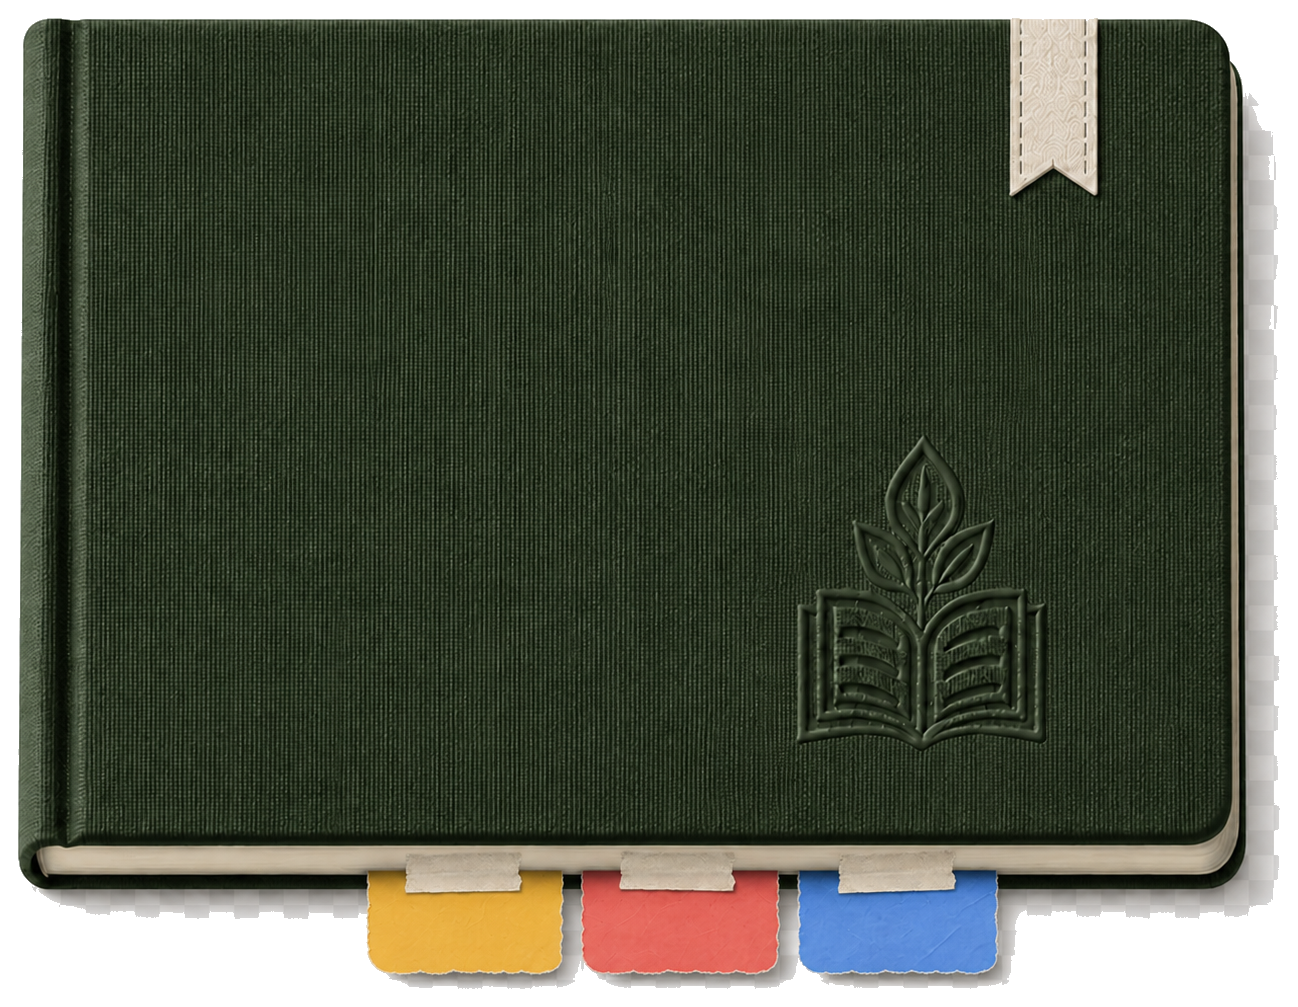
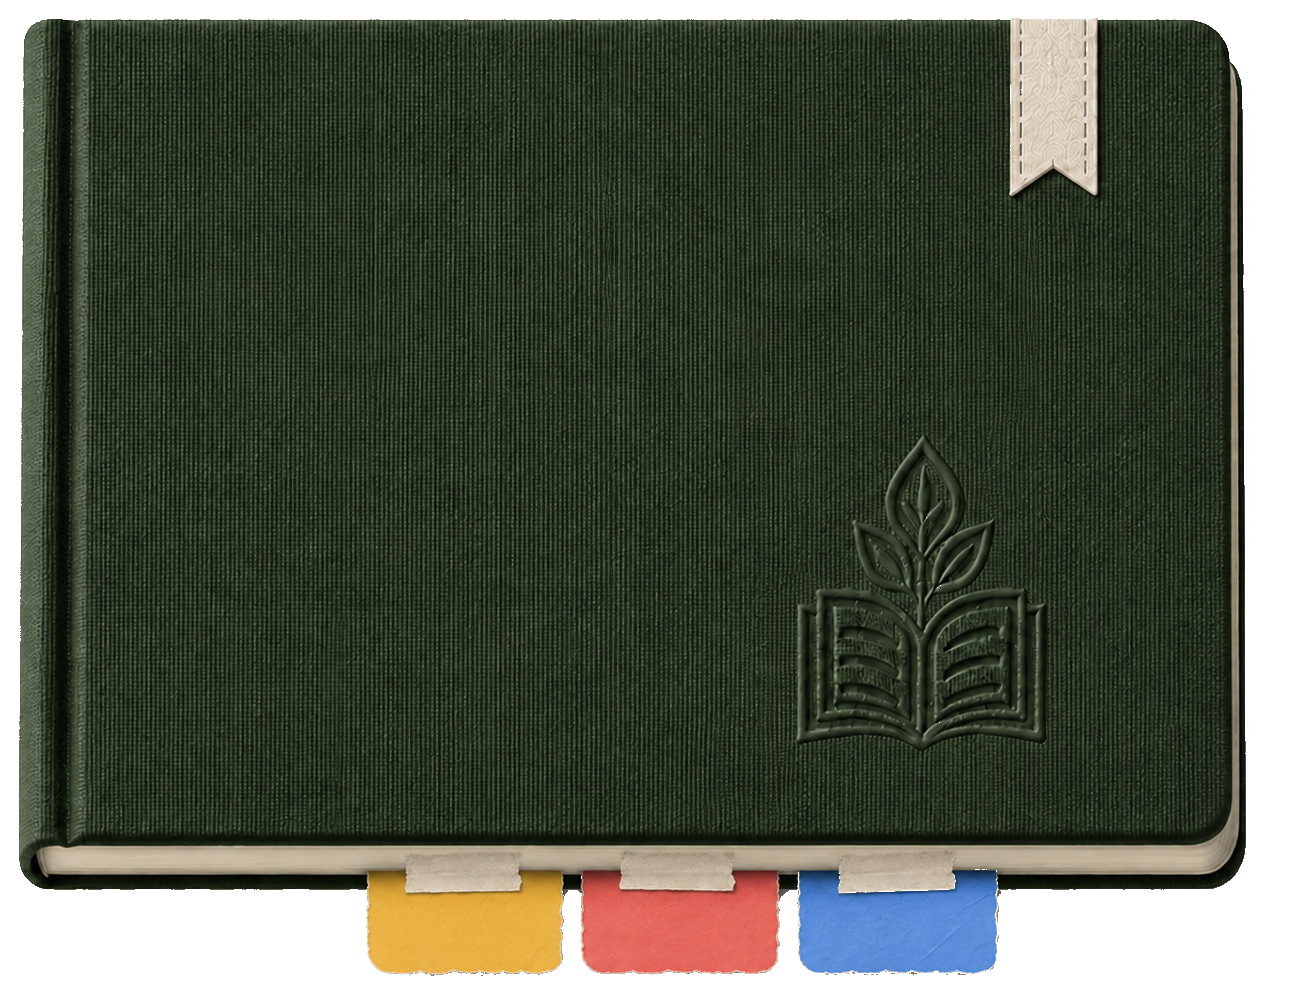
Fix Home v7 contact shadows

Changed region(s): [[0.3082, 0.0924, 0.9861, 0.9851], [0.0308, 0.862, 0.2773, 0.9235]]

diff --git a/frontend/app/globals.css b/frontend/app/globals.css
@@ -2620,11 +2620,45 @@ body:has(.home-v4) .app-toolbar {
   aspect-ratio: 1298 / 1007;
   margin-top: -12px;
   z-index: 1;
-  /* No drop-shadow filter here: the plate's own baked-in contact shadow
-     (bottom edge, right edge, and each tab's own table cast) is the only
-     shadow source for this object, so there's nothing for a CSS filter to
-     double up with -- unlike Phase 199-200, where a `filter` here and a
-     separate PNG/gradient shadow pseudo-element could visually compete. */
+  /* Home v7 shadow grounding fix -- no drop-shadow filter here. A
+     from-scratch attempt at fixing grounding by adding
+     `filter: drop-shadow(...)` directly to `.home-v4-notebook-img` was
+     tried and rejected: a CSS filter on the whole plate image traces its
+     opaque rectangle-ish silhouette (page edge, ribbon corner, tab
+     corners) rather than following the actual soft falloff a real contact
+     shadow needs, and tuning it also required compensating `--cta-top`/
+     note-padding shifts elsewhere that broke the CTA ribbon's visibility
+     on mobile 390 -- confirmed broken, not assumed. See ::before below
+     for the shadow this object actually uses instead. */
+}
+
+/* Home v7 shadow grounding fix -- table contact shadow as its own
+   shadow-only transparent PNG (home-v7-notebook-tabs-contact-shadow.png),
+   not a CSS filter and not a separate solid-color/gradient div. Generated
+   directly from the cleaned plate's own alpha silhouette (see
+   ASSET_MANIFEST.md in home-v7/): two blurred, down-right-offset copies
+   of the plate's alpha channel (a tight small-radius blur for a darker
+   near-contact seam, a wider soft-radius blur for the broader outward
+   fade), combined and rendered in one dark warm-brown PNG at the exact
+   same 1298x1007 canvas as the plate itself -- so `background-size:100%
+   100%` lines it up with the plate without any separate position/scale
+   math. `::before` (behind `.home-v4-notebook-img`'s `z-index:0` within
+   this element's own stacking context) means the plate paints over
+   whatever part of the shadow falls under the opaque book/tabs; only the
+   part that peeks out past their real edges is visible, which is what
+   reads as "the book and tabs are actually resting on the desk" instead
+   of a rectangular plate sitting behind them. pointer-events:none (it's
+   decorative, and the shortcut buttons need their own clicks to land on
+   them, not this). */
+.home-v4-notebook::before {
+  content: "";
+  position: absolute;
+  inset: 0;
+  z-index: -1;
+  background-image: url("/brand/decor/home-v7/home-v7-notebook-tabs-contact-shadow.png");
+  background-size: 100% 100%;
+  background-repeat: no-repeat;
+  pointer-events: none;
 }
 
 .home-v4-note-img,

diff --git a/frontend/public/brand/decor/home-v7/ASSET_MANIFEST.md b/frontend/public/brand/decor/home-v7/ASSET_MANIFEST.md
@@ -11,12 +11,25 @@ scene plate, plus the confirmed Shiori reading-peek pose.
     the canonical Home V7 source. The intermediate exploration folder was
     removed during cleanup so future work starts from this manifest and this
     file, not from the failed shadow iteration set.
-  - Contains the notebook cover, its bookmark ribbon and emboss mark, all
-    three shortcut tabs (with their own tape strips), and every contact
-    shadow (notebook bottom/right, each tab's own table shadow) baked into
-    ONE image under one consistent light source. Desk background is NOT
-    included -- this sits on top of the existing `body:has(.home-v4)`
-    desk-surface photo/vignette, which stays unchanged.
+  - Home v7 shadow grounding fix -- cleaned: a live Home screenshot showed
+    opaque light-grey pixels (RGB ~160-215, all channels within 15 of each
+    other, A=255 -- confirmed by pixel sampling, not eyeballed) forming a
+    stairstep residue along the notebook's bottom-right corner
+    (x:1250-1298, y:780-816). Removed those specific pixels (set to
+    transparent) while leaving every other pixel byte-identical to the
+    prior version -- verified by re-sampling the page/ribbon/tape/tab-color
+    reference points listed below against the pre-cleanup file and finding
+    zero differences, so no real cover/page/ribbon/tape/tab-paper content
+    was touched, only the residue.
+  - Contains the notebook cover, its bookmark ribbon and emboss mark, and
+    all three shortcut tabs (with their own tape strips). Desk background
+    is NOT included -- this sits on top of the existing `body:has(.home-v4)`
+    desk-surface photo/vignette, which stays unchanged. The visible table
+    contact shadow is NOT baked into this file (see
+    `home-v7-notebook-tabs-contact-shadow.png` below) -- an earlier version
+    of this manifest claimed the shadow was baked in here, but the shadow
+    that plate actually carried read as too weak/boxy in practice, which is
+    what this phase's separate shadow asset replaces.
   - Replaces the former separate notebook-cover image + separate tab-rail
     image + separate emboss overlay + CSS-drawn
     `.home-v4-notebook::before`/`.home-v4-tab-rail::after` contact shadows
@@ -33,6 +46,35 @@ scene plate, plus the confirmed Shiori reading-peek pose.
     - decks (blue): x 800-996
     - tab row: y 850 (tape top) - 990 (torn bottom edge), of 1007 total
     - notebook cover alone (excluding tabs): x 20-1276, y 20-816
+
+- `home-v7-notebook-tabs-contact-shadow.png`
+  - 1298x1007, transparent PNG, alpha preserved, same canvas size/origin
+    as `home-v7-notebook-tabs-shadow-plate.png` so `background-size:100%
+    100%` lines the two up without any separate offset math in CSS.
+  - Home v7 shadow grounding fix -- generated (not hand-drawn) from the
+    cleaned plate's own alpha channel: two blurred, down-right-offset
+    copies of the plate's silhouette combined into one shadow --
+    a tight small-radius blur (offset ~5-7px) for a darker near-contact
+    seam, and a wider soft-radius blur (offset ~18-26px) for the broader
+    outward fade, unioned together and rendered as one dark warm-brown
+    (RGB 32,22,11) layer. Because the shadow comes from the plate's own
+    silhouette, the notebook's bottom/right edge AND each of the three
+    tabs' own lower torn edges get individually-shaped shadows in one
+    pass -- no separate per-tab assets needed, and no risk of the shadow's
+    shape disagreeing with the object casting it the way a hand-tuned
+    CSS gradient could.
+  - Applied via `.home-v4-notebook::before` (globals.css), behind
+    `.home-v4-notebook-img`'s z-index so only the part that peeks out past
+    the plate's own opaque edges is visible -- `pointer-events:none`, does
+    not affect the three shortcut buttons' own click targets.
+  - Rejected approach: a `filter: drop-shadow(...)` added directly to
+    `.home-v4-notebook-img` was tried first and discarded -- a CSS filter
+    on the whole plate traces its opaque rectangle-ish silhouette rather
+    than a true soft falloff, and tuning it required compensating
+    `--cta-top`/note-padding shifts elsewhere that broke the CTA ribbon's
+    visibility on mobile 390 (confirmed broken via screenshot, not
+    assumed). This asset avoids that failure mode entirely since it's a
+    static shadow layer with no effect on any other element's layout.
 
 - `home-v7-shiori-reading-peek.png`
   - 1024x1050, transparent PNG, alpha preserved.
@@ -53,6 +95,10 @@ scene plate, plus the confirmed Shiori reading-peek pose.
 
 ## Source
 
-Both assets came from prior exploration phases and were promoted into this
-folder as the final implementation choices. Treat `home-v7/` as the durable
-asset boundary; older failed phase folders/previews were intentionally removed.
+The notebook plate and Shiori pose came from prior exploration phases and
+were promoted into this folder as the final implementation choices. The
+contact-shadow PNG was generated in the Home v7 shadow grounding fix pass,
+derived directly from the (cleaned) plate's own alpha channel rather than
+hand-drawn or sourced from an exploration phase. Treat `home-v7/` as the
+durable asset boundary; older failed phase folders/previews were
+intentionally removed.
